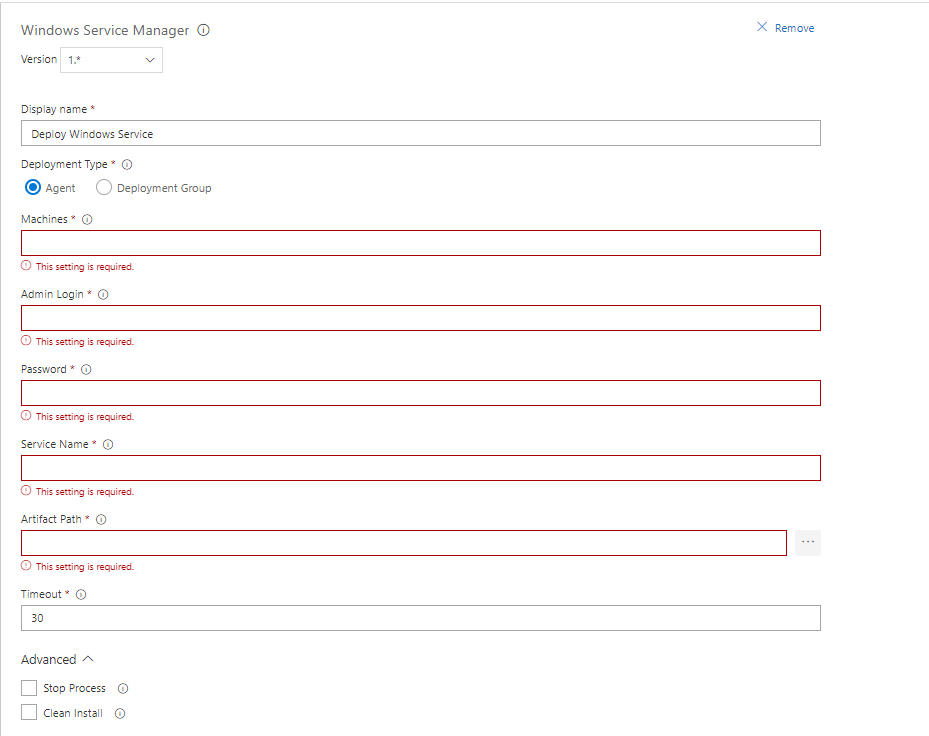
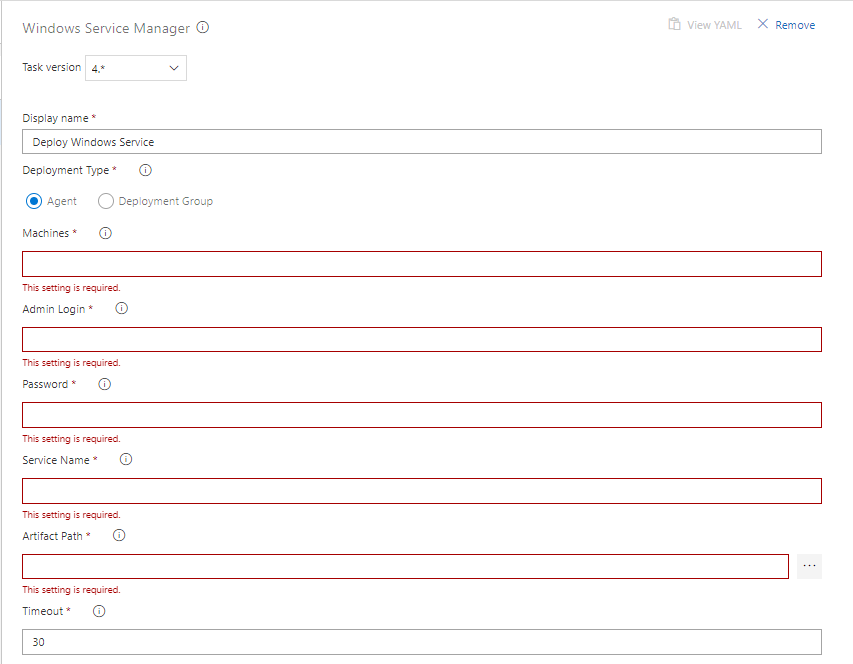
README.md TopShelf tags

diff --git a/README.md b/README.md
@@ -2,7 +2,7 @@
 
 ## Tasks Included
 
-Windows Service Manager - Deploys a windows service installed on a target machine or a deployment group target.
+Windows Service Manager - Installs and deploys a windows service or [TopShelf](https://github.com/Topshelf/Topshelf) service on a target machine or a deployment group target.
 
 1. Locates the service by the **Service Name**
 2. Stops the service
@@ -23,6 +23,14 @@ After installing the Azure DevOps Pipelines extension from the link below, open 
 
 ![Task Options](https://github.com/Dejulia489/WindowsServiceManager/blob/master/Images/TaskOptionsDeploymentGroup.png?raw=true "Task Options Deployment Group")
 
+### Advanced Task Options
+
+![Task Options](https://github.com/Dejulia489/WindowsServiceManager/blob/master/Images/TaskOptionsAdvanced.png?raw=true "Advanced Task Options")
+
+### Installation Task Options
+
+![Task Options](https://github.com/Dejulia489/WindowsServiceManager/blob/master/Images/TaskOptionsInstallation.png?raw=true "Installation Task Options")
+
 #### Required Fields
 
 1. **Deployment Type** - Deploying with either an Agent or a Deployment Group Target.
@@ -41,13 +49,23 @@ After installing the Azure DevOps Pipelines extension from the link below, open 
 1. **Stop Process** - Stops the process if the service does not respond within the timeout.
 2. **Clean Install** - Removes all files inside the parent directory of the .exe file prior to copying the Artifact.
 
+#### Installation Fields
+
+1. **Install the windows service** - Enables service installation.
+2. **Installation Path** - The path to the executable file.
+3. **Run As Username** - The username the service should run as.
+4. **Run As Password** - The password for the Run As Username. It can accept variable defined in Build/Release definitions as '$(passwordVariable)'. You may mark variable type as 'secret' to secure it.
+5. **Install as a TopShelf Service** - Enables [TopShelf](https://github.com/Topshelf/Topshelf) installation.
+6. **Instance Name** - The name of the [TopShelf](https://github.com/Topshelf/Topshelf) instance.
+7. **Install Arguments** - The TopShelf installation arguments.
+
 ## Release Notes
 
-[![Build status](https://dev.azure.com/michaeldejulia/WindowsServiceManager/_apis/build/status/WindowsServiceManager)](https://dev.azure.com/michaeldejulia/WindowsServiceManager/_build/latest?definitionId=3)
+[![Build status](https://dev.azure.com/MaDSolutionsLLC/Windows Service Manager/_apis/build/status/WindowsServiceManager)](https://dev.azure.com/MaDSolutionsLLC/Windows Service Manager/_build/latest?definitionId=3)
 
 ### Version 4
 
-Implemented support for installing TopShelf windows services.
+Implemented support for installing [TopShelf](https://github.com/Topshelf/Topshelf) windows services.
 
 ### Version 3
 
